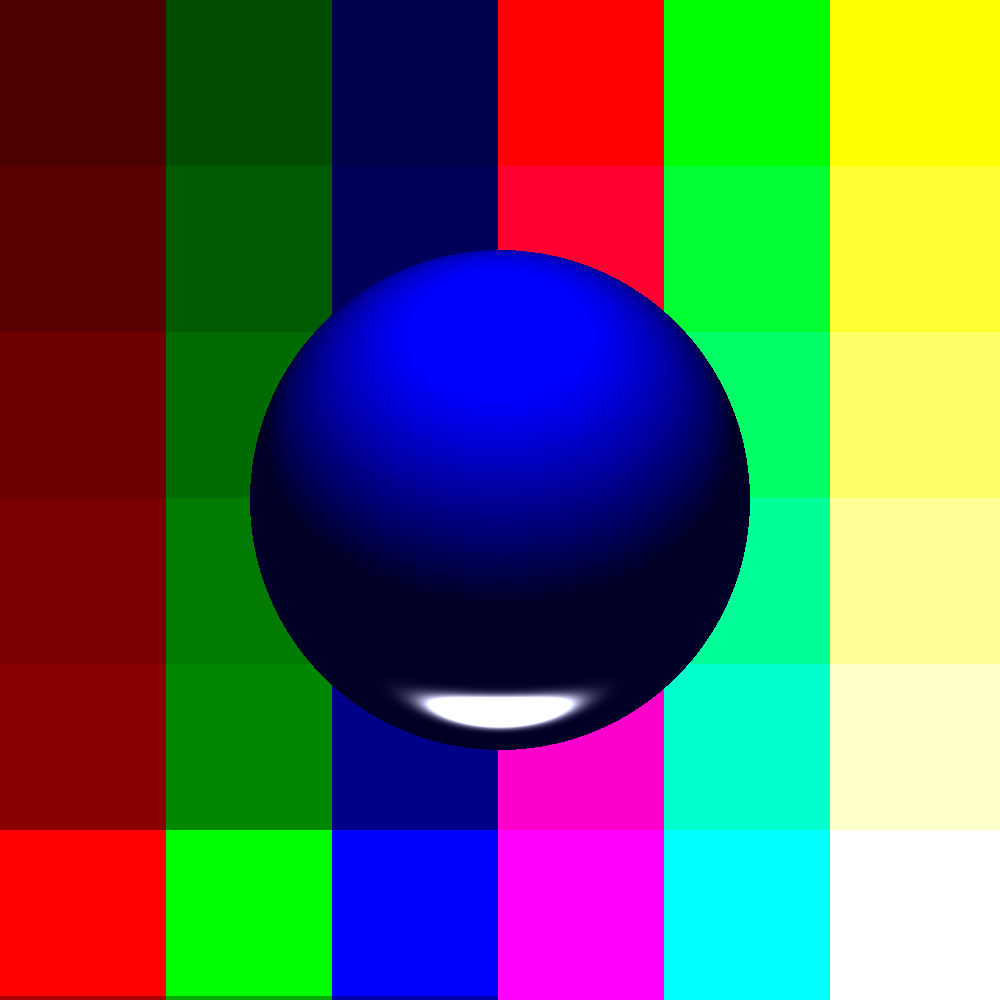
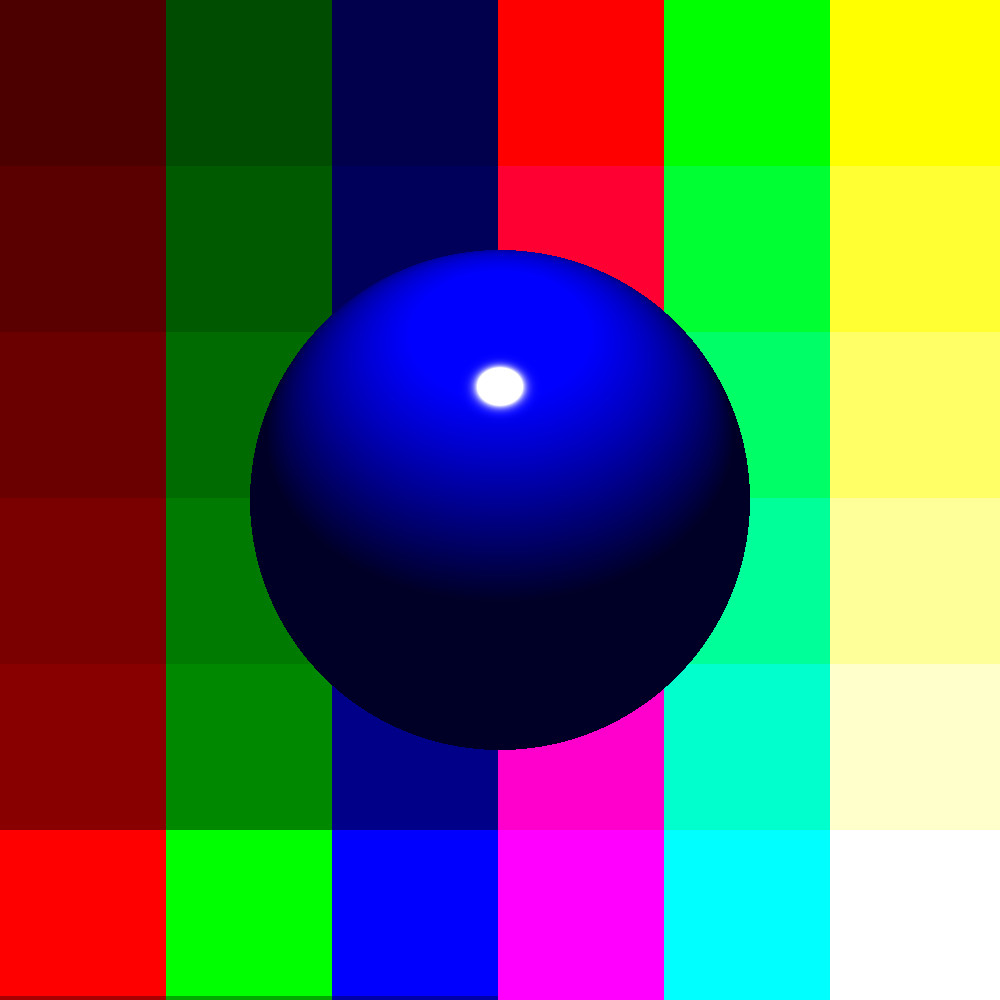
light blik fixed

Changed region(s): [[0.403, 0.682, 0.62, 0.744], [0.465, 0.341, 0.558, 0.434]]

diff --git a/obj/Debug/net9.0/fotorealistyczna.AssemblyInfo.cs b/obj/Debug/net9.0/fotorealistyczna.AssemblyInfo.cs
@@ -13,7 +13,7 @@ using System.Reflection;
 [assembly: System.Reflection.AssemblyCompanyAttribute("fotorealistyczna")]
 [assembly: System.Reflection.AssemblyConfigurationAttribute("Debug")]
 [assembly: System.Reflection.AssemblyFileVersionAttribute("1.0.0.0")]
-[assembly: System.Reflection.AssemblyInformationalVersionAttribute("1.0.0+d1f9cbaf173800ad824b1ce9c4525bd8d5481e4b")]
+[assembly: System.Reflection.AssemblyInformationalVersionAttribute("1.0.0+b114be77a0087c2b736295a0efdcf1d3ef79c899")]
 [assembly: System.Reflection.AssemblyProductAttribute("fotorealistyczna")]
 [assembly: System.Reflection.AssemblyTitleAttribute("fotorealistyczna")]
 [assembly: System.Reflection.AssemblyVersionAttribute("1.0.0.0")]

diff --git a/rendering/imageRender.cs b/rendering/imageRender.cs
@@ -52,7 +52,7 @@ namespace RayTracing
             {
                 Vec lightDir = (light.Position - point).Normalize();
                 float diff = Math.Max(Vec.DotProduct(normal, lightDir), 0);
-                Vec reflectDir = (lightDir - normal * 2 * Vec.DotProduct(normal, lightDir)).Normalize();
+                Vec reflectDir = Vec.Reflect(-lightDir, normal).Normalize();
 
                 float spec = (float)Math.Pow(Math.Max(Vec.DotProduct(viewDir, reflectDir), 0), material.Shininess);
 
